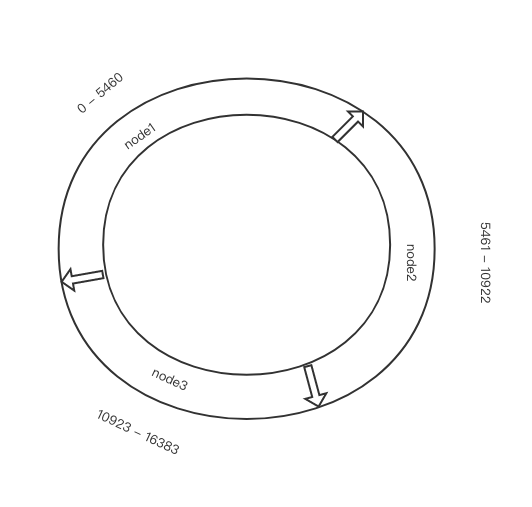
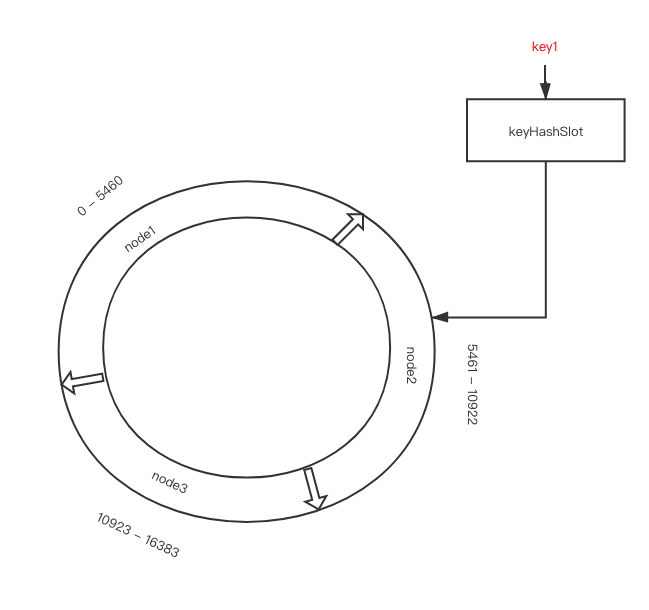
cluster v0.2

diff --git a/Server/cluster/cluster.md b/Server/cluster/cluster.md
@@ -5,6 +5,7 @@
 * [related file](#related-file)
 * [cluster](#cluster)
 * [slots](#slots)
+* [reshard](#reshard)
 * [failover](#failover)
 * [read more](#read-more)
 
@@ -73,9 +74,9 @@ This is the hash function of the `key`
         return crc16(key+s+1,e-s-1) & 0x3FFF;
     }
 
-The set command
+If we execute the `set` command
 
-    127.0.0.1:7000> set key1 val1
+    127.0.0.1:7000> SET key1 val1
     -> Redirected to slot [9189] located at 127.0.0.1:7001
     OK
 
@@ -87,5 +88,38 @@ or
 
 ![slots2](https://github.com/zpoint/Redis-Internals/blob/5.0/Server/cluster/slots2.png)
 
+# reshard
+
+![reshard0](https://github.com/zpoint/Redis-Internals/blob/5.0/Server/cluster/reshard0.png)
+
+The above diagram is part of the cluster status in `127.0.0.1:7001`
+
+`myself` points to the master cluster node for current server instance
+
+`size` is the cluster size
+
+
+
+`key1` is currently in slot 9189 and slot 9189 in located in `127.0.0.1:7001`
+
+If we want to reshard the slot 9189 from `127.0.0.1:7001` to `127.0.0.1:7000`
+
+    127.0.0.1:7000> CLUSTER SETSLOT 9189 IMPORTING fd1099f4aff0be7fb014e1473c404631a764ffa4
+    OK
+    127.0.0.1:7001> CLUSTER SETSLOT 9189 MIGRATING 4e1901ce95cfb749b94c435e1f1c123ae0579e79
+    OK
+    127.0.0.1:7001> CLUSTER GETKEYSINSLOT 9189 100
+    1) "key1"
+    127.0.0.1:7001> MIGRATE 127.0.0.1 7000 key1 0 5000
+    OK
+    127.0.0.1:7000> CLUSTER SETSLOT 9189 NODE 4e1901ce95cfb749b94c435e1f1c123ae0579e79
+    OK
+    127.0.0.1:7001> CLUSTER SETSLOT 9189 NODE 4e1901ce95cfb749b94c435e1f1c123ae0579e79
+    OK
+    127.0.0.1:7002> CLUSTER SETSLOT 9189 NODE 4e1901ce95cfb749b94c435e1f1c123ae0579e79
+    OK
+
+
 # read more
 * [Redis Document->cluster-tutorial](https://redis.io/topics/cluster-tutorial)
+* [Redis Document->cluster-setslot](https://redis.io/commands/cluster-setslot)
